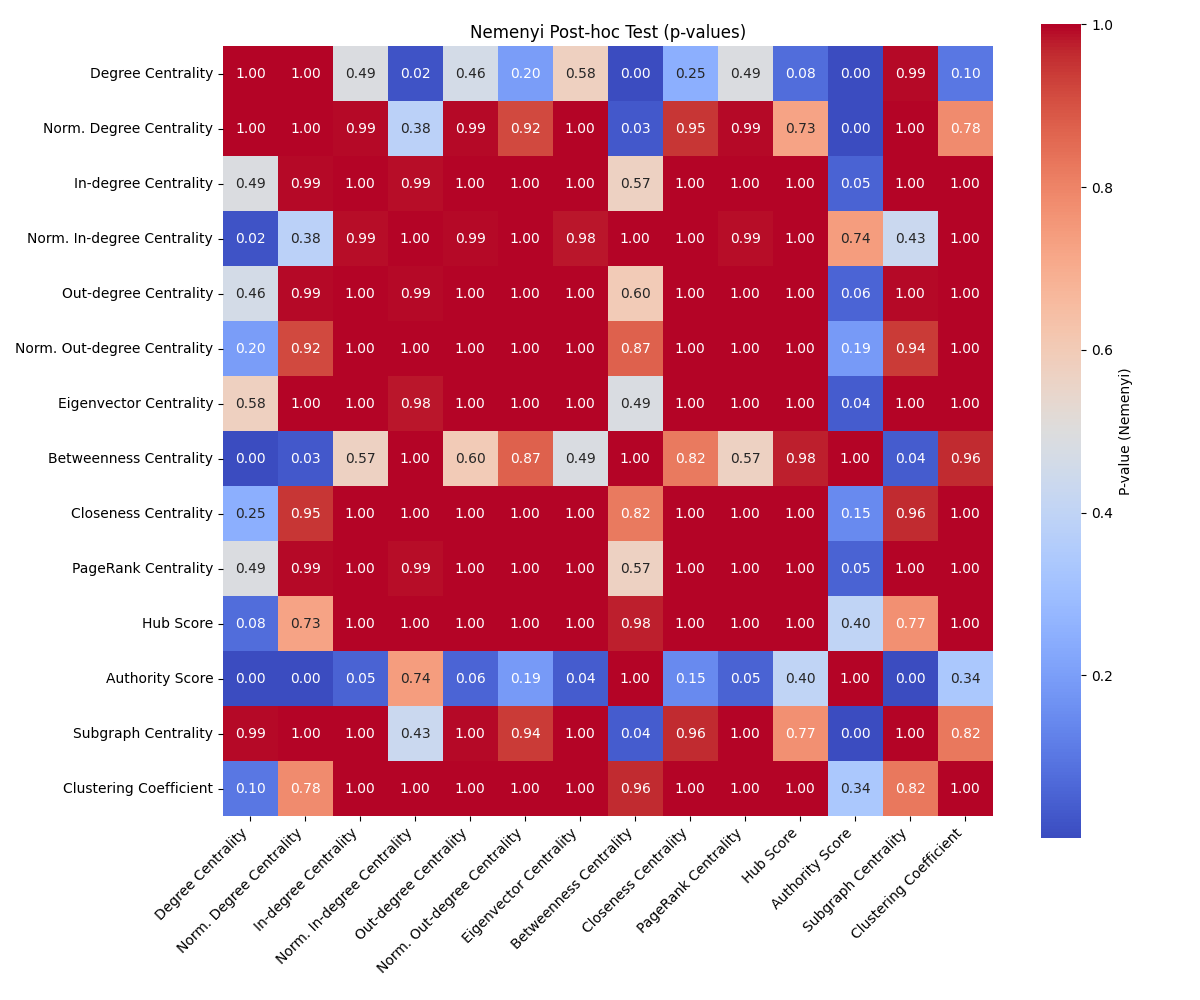
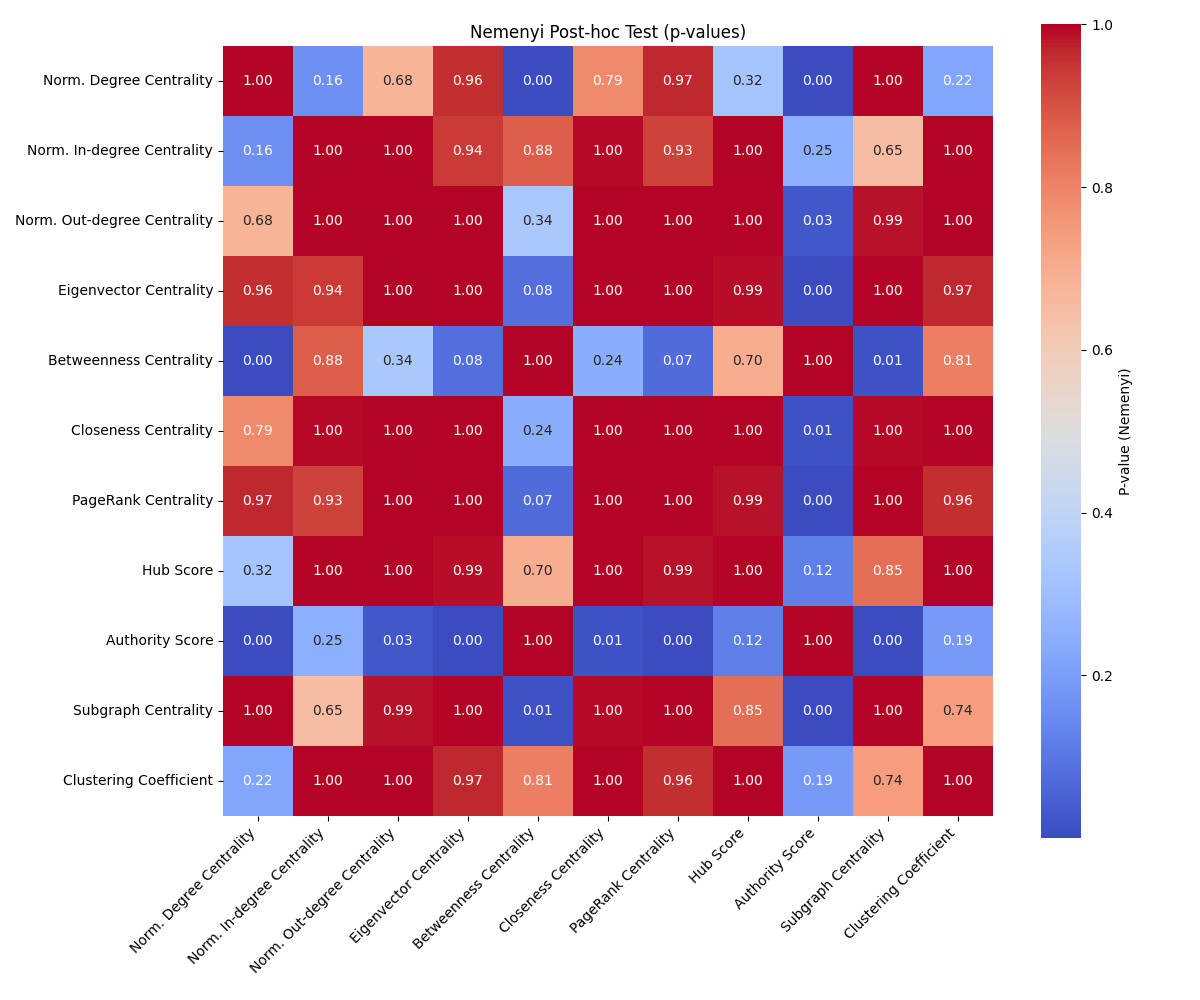
fix: do not use unnormalized degrees

diff --git a/Scripts/ranks.py b/Scripts/ranks.py
@@ -16,9 +16,9 @@ df = pd.read_csv("Metrics/metrics_centrality.csv")
 
 # === Select centrality columns ===
 centrality_cols = [
-    'Degree Centrality', 'Norm. Degree Centrality',
-    'In-degree Centrality', 'Norm. In-degree Centrality',
-    'Out-degree Centrality', 'Norm. Out-degree Centrality',
+    'Norm. Degree Centrality', #'Degree Centrality',
+    'Norm. In-degree Centrality', #'In-degree Centrality',
+    'Norm. Out-degree Centrality', #'Out-degree Centrality',
     'Eigenvector Centrality', 'Betweenness Centrality',
     'Closeness Centrality', 'PageRank Centrality',
     'Hub Score', 'Authority Score',
